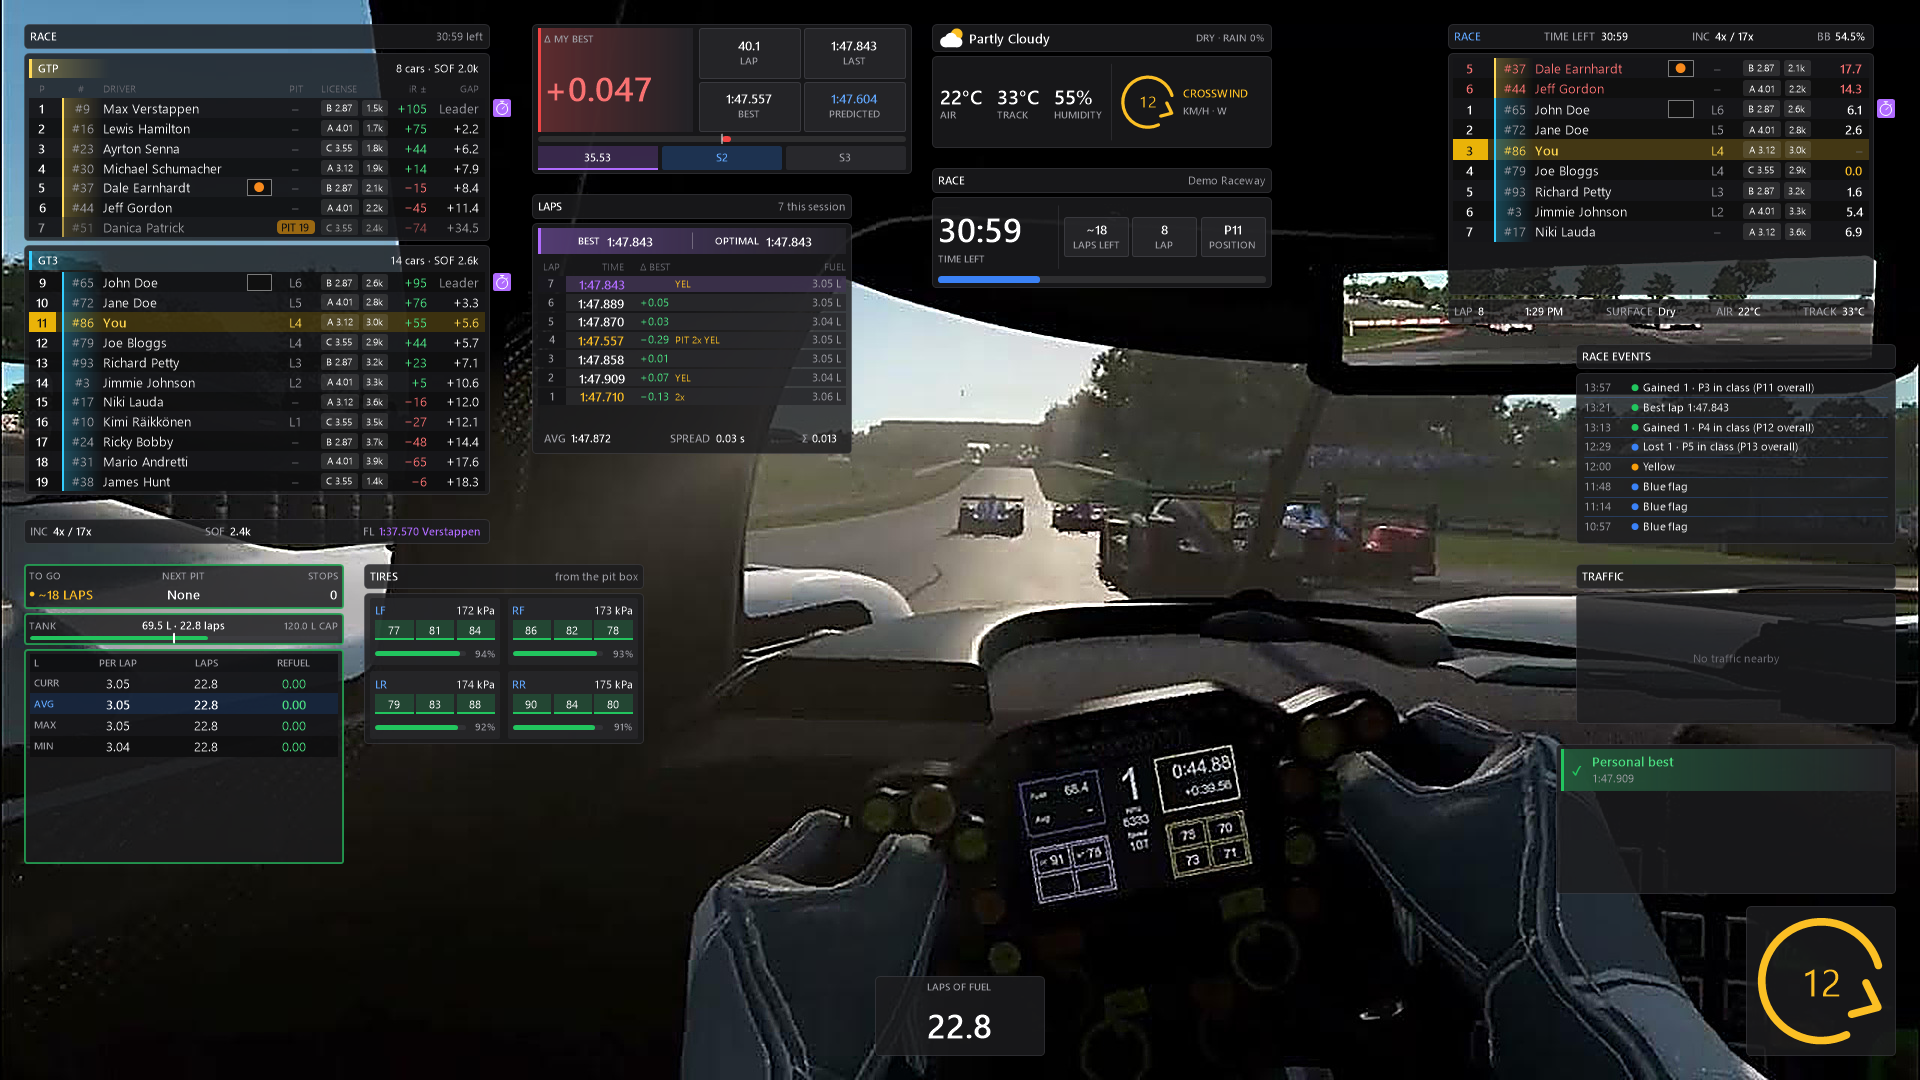
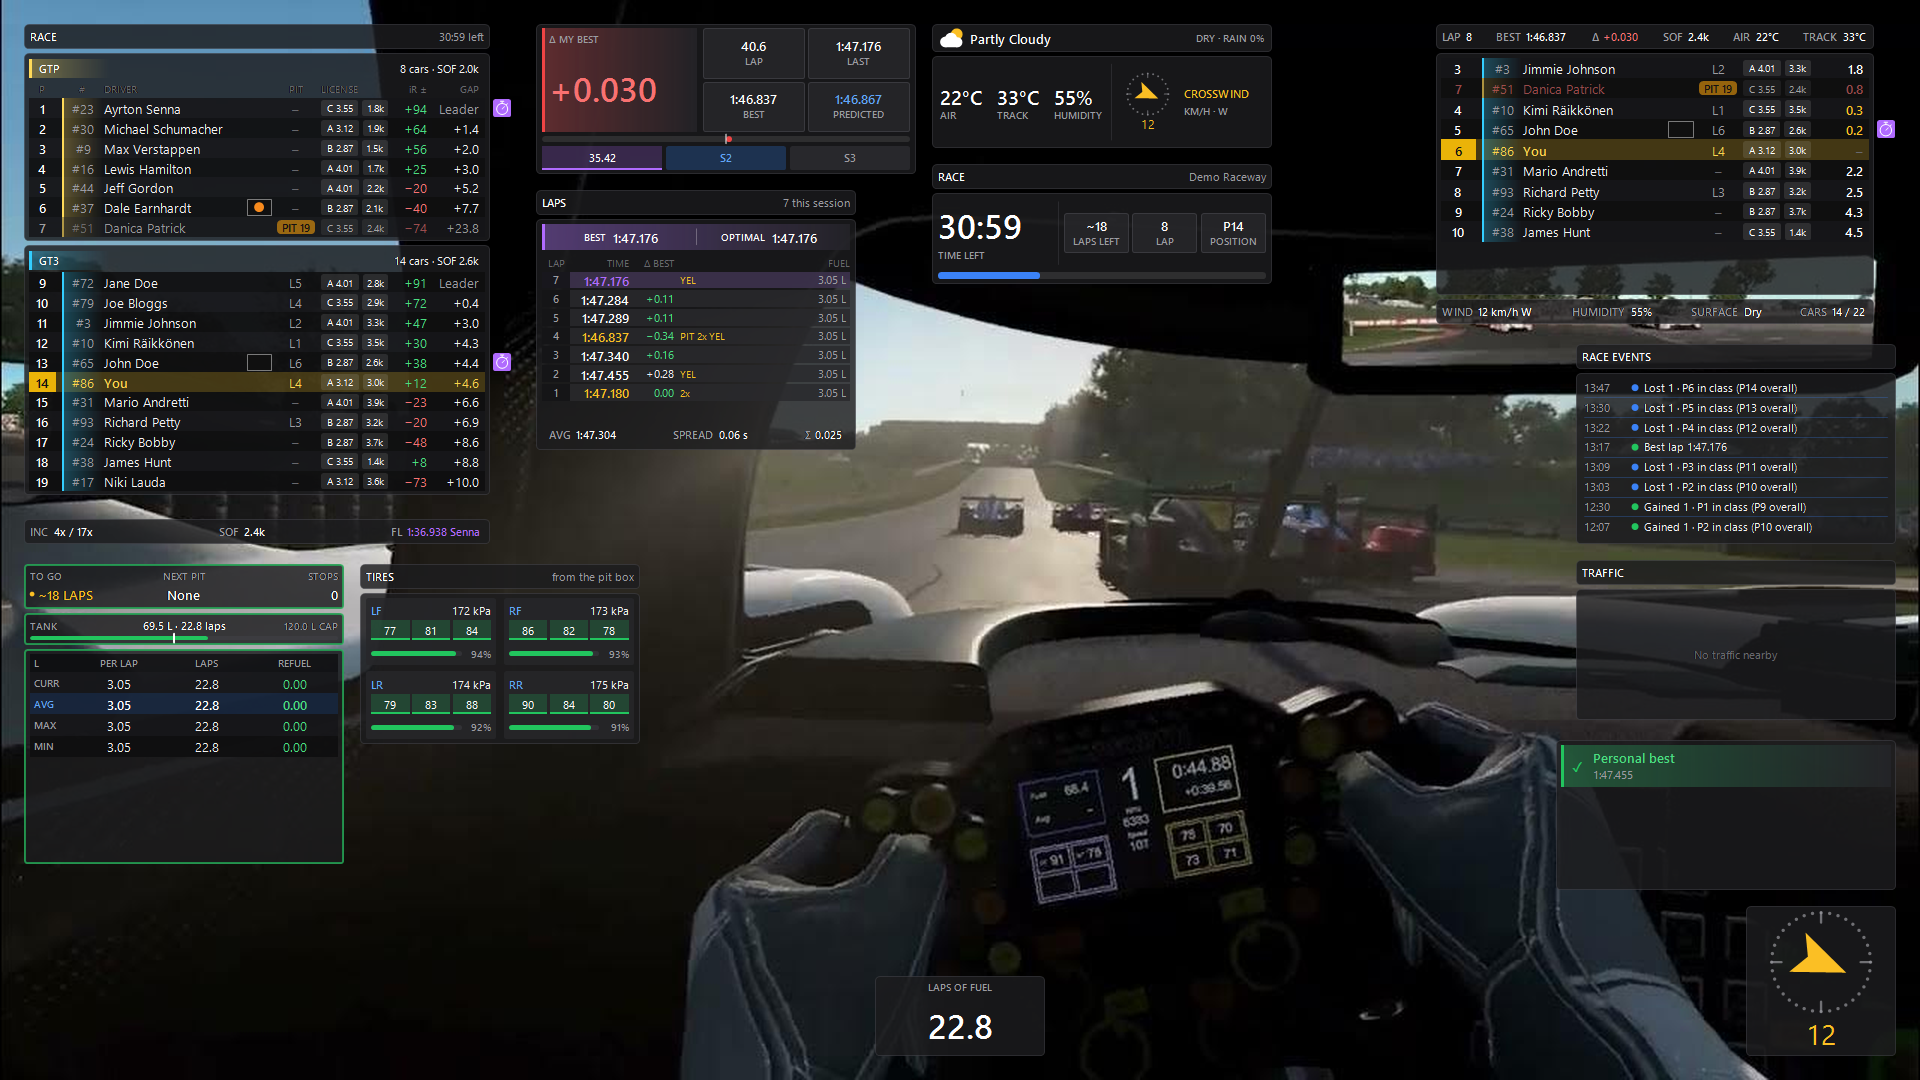
Update

diff --git a/src/GoodieBag/SimRacing/Hud/Widgets/InfoWidgets.cs b/src/GoodieBag/SimRacing/Hud/Widgets/InfoWidgets.cs
@@ -260,8 +260,8 @@ internal sealed class WeatherWidget : HudWidget
     public static IReadOnlyList<HudOption> Options { get; } = new[]
     {
         HudOption.Choice("temp", "Temperatures in", "units", new HudChoice("units", "Overlay units"), new HudChoice("c", "°C"), new HudChoice("f", "°F"), new HudChoice("both", "°C and °F")),
-        HudOption.Bool("wind", "Wind", true, "An arrow pointing where the wind blows, the speed inside: red for a headwind, amber across, green behind"),
-        HudOption.Bool("turn", "Arrow turns with the car", true, "On: up = straight ahead. Off: up = north."),
+        HudOption.Bool("wind", "Wind", true, "A pointer in a dotted dial showing where the wind blows, the speed under it: red for a headwind, amber across, green behind"),
+        HudOption.Bool("turn", "Pointer turns with the car", true, "On: up = straight ahead. Off: up = north."),
     };
 
     private readonly (string Label, string Value)[] _cells = new (string, string)[3];
@@ -390,37 +390,53 @@ internal static class WindArrow
         ? (r == WindRelation.Calm ? p.P.Muted : p.P.AccentText)
         : r switch { WindRelation.Head => p.P.DangerText, WindRelation.Cross => p.P.WarnText, WindRelation.Tail => p.P.GoodText, _ => p.P.Muted };
 
-    private static readonly PointF[] Chevron = new PointF[3];
+    private static readonly PointF[] Pointer = new PointF[4];
+    private static readonly (float Along, float Across)[] PointerShape = { (0.55f, 0f), (-0.52f, 0.43f), (-0.29f, 0f), (-0.52f, -0.43f) };
+    private static readonly (float X, float Y)[] ManyDots = Circle(36), FewDots = Circle(24);
+
+    private static (float X, float Y)[] Circle(int count) => Enumerable.Range(0, count)
+        .Select(i => ((float)Math.Sin(i * Math.PI * 2 / count), (float)-Math.Cos(i * Math.PI * 2 / count))).ToArray();
 
     public static void Draw(HudPainter p, RectangleF box, double? speed, double? towardRad, double headingRad, string colors, HudUnits units, bool showUnit, string speedUnit = "units")
     {
-        float size = Math.Min(box.Width, box.Height);
-        float cx = box.X + box.Width / 2, cy = box.Y + box.Height / 2;
-        float stroke = Math.Max(2, size * 0.055f), r = size / 2 - stroke * 1.4f;
         var relation = towardRad is { } t ? Relation(speed, t, headingRad) : WindRelation.Calm;
         var color = ColorOf(p, relation, colors);
-        if (towardRad is { } toward)
-        {
-            double bearing = (toward - headingRad) * 180 / Math.PI;
-            float ux = (float)Math.Sin(bearing * Math.PI / 180), uy = (float)-Math.Cos(bearing * Math.PI / 180);
-            float tip = r + stroke * 0.4f, back = r - r * 0.3f, side = r * 0.29f;
-            Chevron[0] = new PointF(cx + ux * back - uy * side, cy + uy * back + ux * side);
-            Chevron[1] = new PointF(cx + ux * tip, cy + uy * tip);
-            Chevron[2] = new PointF(cx + ux * back + uy * side, cy + uy * back - ux * side);
-            p.G.DrawLines(p.Pen(color, stroke), Chevron);
-        }
         double? shown = speed is not { } s ? null : speedUnit switch
         {
             "kmh" => s * 3.6, "mph" => s * 2.23694, "ms" => s,
             _ => RaceFormat.SpeedValue(s, units),
         };
         string unit = speedUnit switch { "kmh" => "km/h", "mph" => "mph", "ms" => "m/s", _ => RaceFormat.SpeedUnit(units) };
-        var font = p.Font(MathF.Max(10, size * 0.27f), false);
+        var font = p.Font(MathF.Max(10, Math.Min(box.Width, box.Height) * 0.2f), false);
         string text = shown is { } x ? x.ToString("0", System.Globalization.CultureInfo.InvariantCulture) : RaceFormat.Missing;
         float lh = p.LineHeight(font), uh = showUnit ? p.LineHeight(p.Tiny) : 0;
-        var numberBox = new RectangleF(cx - r, cy - (lh + uh) / 2, r * 2, lh);
+        float size = Math.Max(8, Math.Min(box.Width, box.Height - lh - uh));
+        float top = box.Y + (box.Height - size - lh - uh) / 2;
+        float cx = box.X + box.Width / 2, cy = top + size / 2;
+        float dot = Math.Max(1f, size * 0.017f), r = size / 2 - dot;
+        var dialColor = HudPalette.Alpha(p.P.Muted, 170);
+        var dial = p.Brush(dialColor);
+        foreach (var (dx, dy) in size < 70 ? FewDots : ManyDots)
+            p.G.FillEllipse(dial, cx + dx * r - dot, cy + dy * r - dot, dot * 2, dot * 2);
+        var tick = p.Pen(dialColor, Math.Max(1.5f, r * 0.05f));
+        p.G.DrawLine(tick, cx, cy - r, cx, cy - r * 0.8f);
+        p.G.DrawLine(tick, cx, cy + r, cx, cy + r * 0.8f);
+        p.G.DrawLine(tick, cx - r, cy, cx - r * 0.8f, cy);
+        p.G.DrawLine(tick, cx + r, cy, cx + r * 0.8f, cy);
+        if (towardRad is { } toward)
+        {
+            double bearing = toward - headingRad;
+            float ux = (float)Math.Sin(bearing), uy = (float)-Math.Cos(bearing);
+            for (int i = 0; i < Pointer.Length; i++)
+            {
+                var (along, across) = PointerShape[i];
+                Pointer[i] = new PointF(cx + (ux * along - uy * across) * r, cy + (uy * along + ux * across) * r);
+            }
+            p.G.FillPolygon(p.Brush(color), Pointer);
+        }
+        var numberBox = new RectangleF(box.X, top + size, box.Width, lh);
         p.Text(text, font, color, numberBox, HAlign.Center, VAlign.Center, false);
-        if (showUnit) p.Text(unit.ToUpperInvariant(), p.Tiny, p.LabelColor, new RectangleF(cx - r, numberBox.Bottom - 2, r * 2, uh), HAlign.Center, VAlign.Center, false);
+        if (showUnit) p.Text(unit.ToUpperInvariant(), p.Tiny, p.LabelColor, new RectangleF(box.X, numberBox.Bottom - 2, box.Width, uh), HAlign.Center, VAlign.Center, false);
     }
 }
 
@@ -428,11 +444,11 @@ internal sealed class WindWidget : HudWidget
 {
     public static IReadOnlyList<HudOption> Options { get; } = new[]
     {
-        HudOption.Bool("turn", "Turns with the car", true, "On: the arrow points where the wind blows as you drive (down = a headwind). Off: up = north."),
+        HudOption.Bool("turn", "Turns with the car", true, "On: the pointer shows where the wind blows as you drive (down = a headwind). Off: up = north."),
         HudOption.Choice("colors", "Colors", "headtail", new HudChoice("headtail", "By headwind / crosswind / tailwind", "Red at the nose, amber across, green behind"), new HudChoice("accent", "The accent color")),
         HudOption.Choice("speedUnit", "Speed in", "units", new HudChoice("units", "Overlay units"), new HudChoice("kmh", "km/h"), new HudChoice("mph", "mph"), new HudChoice("ms", "m/s")),
         HudOption.Bool("unit", "Unit label", false),
-        HudOption.Bool("title", "Title", false, "“Wind” over the arrow"),
+        HudOption.Bool("title", "Title", false, "“Wind” over the dial"),
     };
 
     public override void Draw(HudPainter p, HudView v)

diff --git a/src/GoodieBag/SimRacing/Hud/HudCatalog.cs b/src/GoodieBag/SimRacing/Hud/HudCatalog.cs
@@ -27,10 +27,10 @@ internal static class HudCatalog
         new("tyres", "Tires", "Pressures, temperatures (inner / middle / outer) and wear for each corner.", 280, 180, () => new TyresWidget())
             { MinW = 180, MinH = 124, DefaultHz = 2, Options = TyresWidget.Options, Editor = Editors.TyresEditor.Def,
               Limits = "iRacing updates tire data in the pit box, not while driving." },
-        new("weather", "Weather & track", "The sky, track wetness and rain, air and track temperature, humidity, and the wind as an arrow turning with your car.", 340, 124, () => new WeatherWidget())
+        new("weather", "Weather & track", "The sky, track wetness and rain, air and track temperature, humidity, and the wind as a pointer turning with your car.", 340, 124, () => new WeatherWidget())
             { MinW = 140, MinH = 80, DefaultHz = 5, Options = WeatherWidget.Options, Editor = Editors.WeatherEditor.Def,
               Limits = "No forecast: iRacing doesn't publish one." },
-        new("wind", "Wind", "The wind's speed with an arrow pointing where it blows, turning with your car: red for a headwind, amber across, green behind.", 150, 150, () => new WindWidget())
+        new("wind", "Wind", "A pointer in a dotted dial showing where the wind blows, with its speed under it, turning with your car: red for a headwind, amber across, green behind.", 150, 150, () => new WindWidget())
             { MinW = 70, MinH = 70, DefaultHz = 5, Options = WindWidget.Options, Editor = Editors.WindEditor.Def,
               Limits = "iRacing gives the wind at the start / finish line, the same all round the track." },
         new("laps", "Lap history", "Your laps with deltas, what happened on them, fuel used, and consistency.", 320, 260, () => new LapsWidget())

diff --git a/README.md b/README.md
@@ -12,17 +12,37 @@ Every feature is a plugin you can switch off, and when one's off it runs nothing
 
 Pick a program and give its window an exact size and spot: a game stretched across triple screens, held at a fixed resolution, or moved onto a side screen, with its borders removed. Presets cover your own displays, triple 1080p / 1440p / 4K and common window sizes. Profiles apply when the program starts (with a delay for games that resize themselves), with a keybind, from the tray or with one click, and groups move several programs at once.
 
+<p>
+  <img src="screenshots/window-profiles.png" alt="Window Profiles" width="49%">
+  <img src="screenshots/window-profile-editor.png" alt="Window profile editor" width="49%">
+</p>
+
 ### Displays
 
 Turn monitors on and off, arrange them, duplicate one onto another, give them your own names, and set resolution, refresh rate, HDR, taskbar, wallpapers and audio. Save it all as profiles (mine are *Desk* and *Sim rig*) and switch between them with a hotkey.
+
+<p>
+  <img src="screenshots/displays.png" alt="Displays" width="49%">
+  <img src="screenshots/display-profile-editor.png" alt="Display profile editor" width="49%">
+</p>
 
 ### Fan Control
 
 Curves, presets, calibration and an emergency failsafe. When you quit you can keep your curves running in a small background helper (its own tray icon), or hand the fans back to the BIOS / driver.
 
+<p>
+  <img src="screenshots/fan-control.png" alt="Fan Control" width="49%">
+  <img src="screenshots/fan-curves.png" alt="Fan curves" width="49%">
+</p>
+
 ### Hardware Monitor
 
 A dashboard of CPU, GPU, memory, network, storage, fans and frame rate, with every sensor your PC exposes. The **Performance Overlay** (FPS, 1% lows, temps, usage) lives here too, and you can drag things into whatever order you want.
+
+<p>
+  <img src="screenshots/hardware-monitor.png" alt="Hardware Monitor dashboard" width="49%">
+  <img src="screenshots/performance-overlay.png" alt="Performance Overlay" width="49%">
+</p>
 
 ### Sim Racing Tools (iRacing)
 
@@ -30,17 +50,30 @@ A dashboard of CPU, GPU, memory, network, storage, fans and frame rate, with eve
 
 Relative, Standings, Fuel & strategy, Lap timing & delta, Lap history, Tires, Weather, Wind, Session, Race events, Multiclass traffic, Alerts and a Data block for any single value. Every widget can be set up however you like, with layouts that switch by car / class / track, and an in-game editor (`Ctrl+Alt+E`) so you never have to leave the car.
 
+<p>
+  <img src="screenshots/iracing-overlay.png" alt="iRacing Overlay" width="49%">
+  <img src="screenshots/overlay-widget-editor.png" alt="Overlay widget editor" width="49%">
+</p>
+
+![Every iRacing Overlay widget](screenshots/all-overlays.png)
+
 #### iRacing Setup Manager
 
 All your setups sorted by car and class. Rename, move, import share packs and pick up new downloads. A fuel calculator for the selected car works out the race laps, fuel and stops.
+
+![iRacing Setup Manager](screenshots/iracing-setup-manager.png)
 
 #### iRacing Controller
 
 iRacing's settings in plain language (search, see what differs from iRacing's defaults and reset it), plus your in-sim keybinds per control profile. Everything gets backed up before it's changed.
 
+![iRacing Controller](screenshots/iracing-controller.png)
+
 #### FOV Calculator
 
 Single and triple screens, compare rigs, and write the result straight into iRacing.
+
+![FOV Calculator](screenshots/fov-calculator.png)
 
 #### Trading Paints and Garage 61
 
@@ -49,6 +82,15 @@ Launch them with Goodie Bag or when iRacing starts.
 ### Session Stats
 
 Your iRacing history, kept on your PC. Laps, time, results, ratings, incidents and personal bests by week / month / season, with a picture of each car. Open any session for its laps and sectors, then compare laps on telemetry traces or a top-down replay. You can export a lap to share and import other people's. Tire wear is tracked per run from the pit-stall readings. It also reads your old iRacing telemetry files, so your history doesn't start from zero, and can switch on iRacing's telemetry recording and clear out files it has already read.
+
+![Session Stats](screenshots/session-stats.png)
+
+<p>
+  <img src="screenshots/session-laps.png" alt="Session laps" width="49%">
+  <img src="screenshots/lap-analysis.png" alt="Lap analysis" width="49%">
+</p>
+
+![Lap replay](screenshots/lap-replay.png)
 
 ## Getting started
 
@@ -87,6 +129,8 @@ Works on Windows 10 and 11 (x64).
 ## GRR League plugin
 
 If you race in the GRR league, turn on the GRR League plugin (Settings → Plugins). It shows your next race, the championship, results and the schedule from the GRR website without leaving the app. It's off by default, so nobody else sees it.
+
+![GRR League](screenshots/grr-league.png)
 
 ## Credits
 
